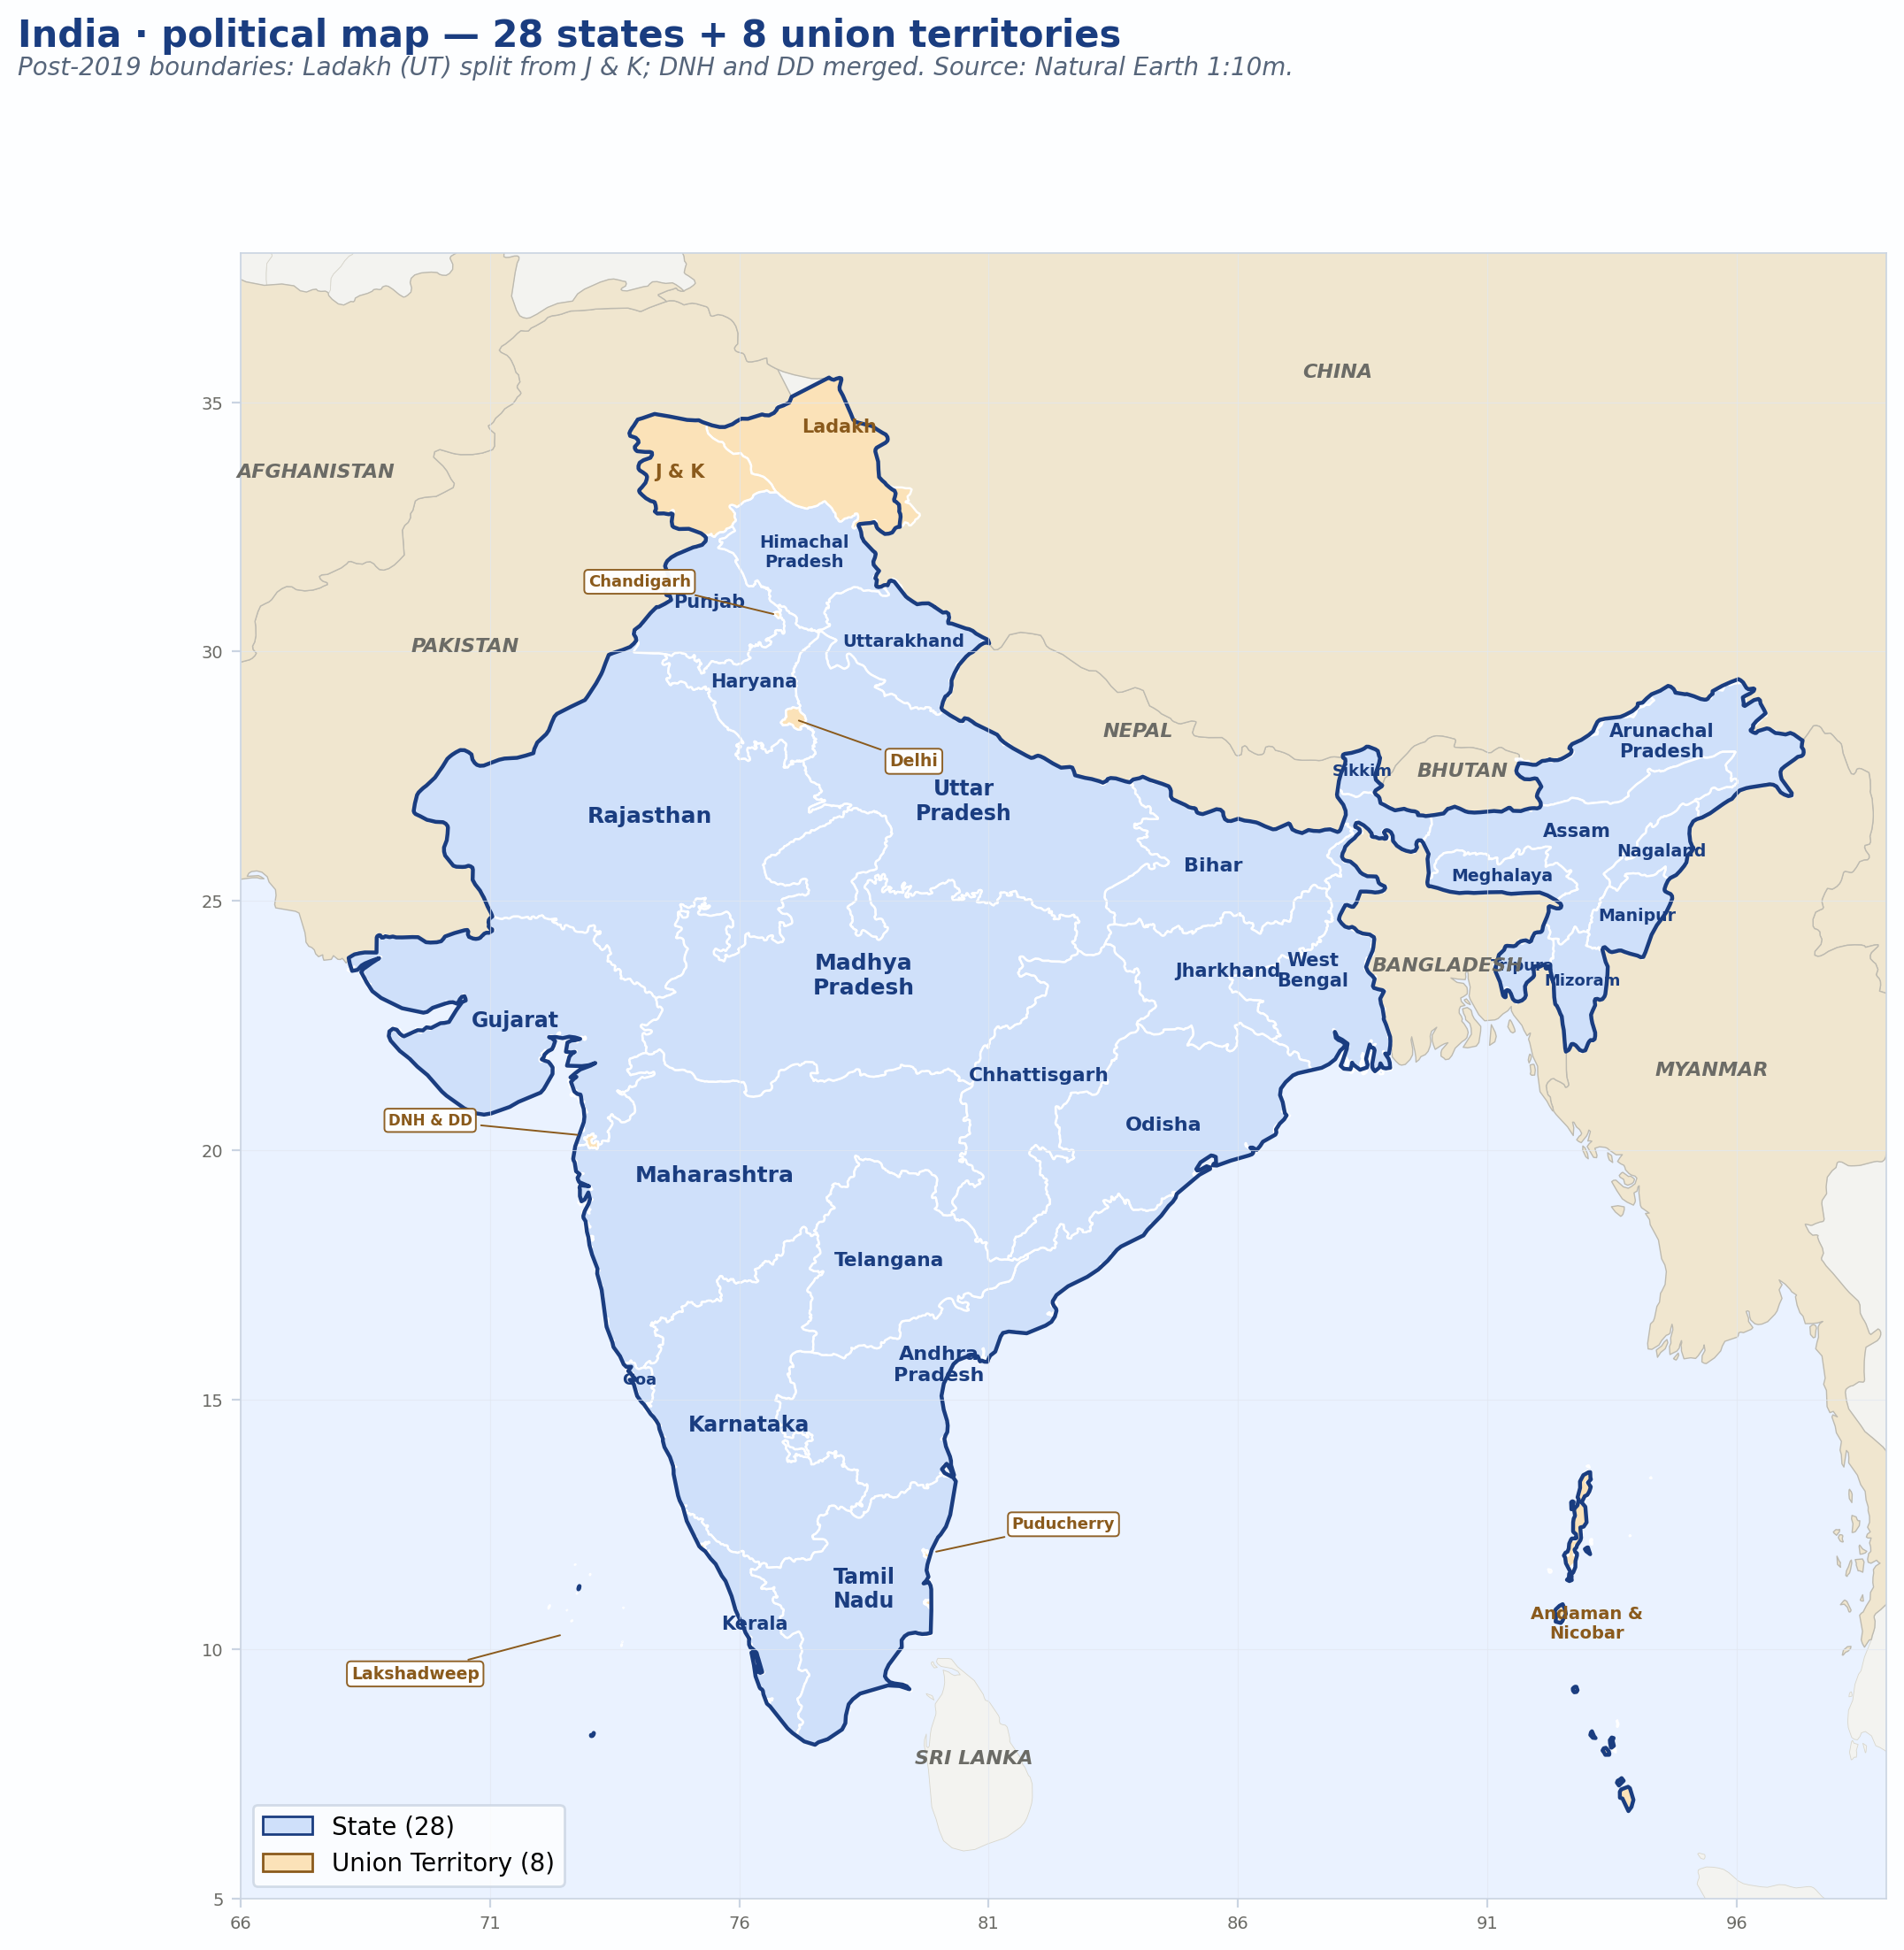
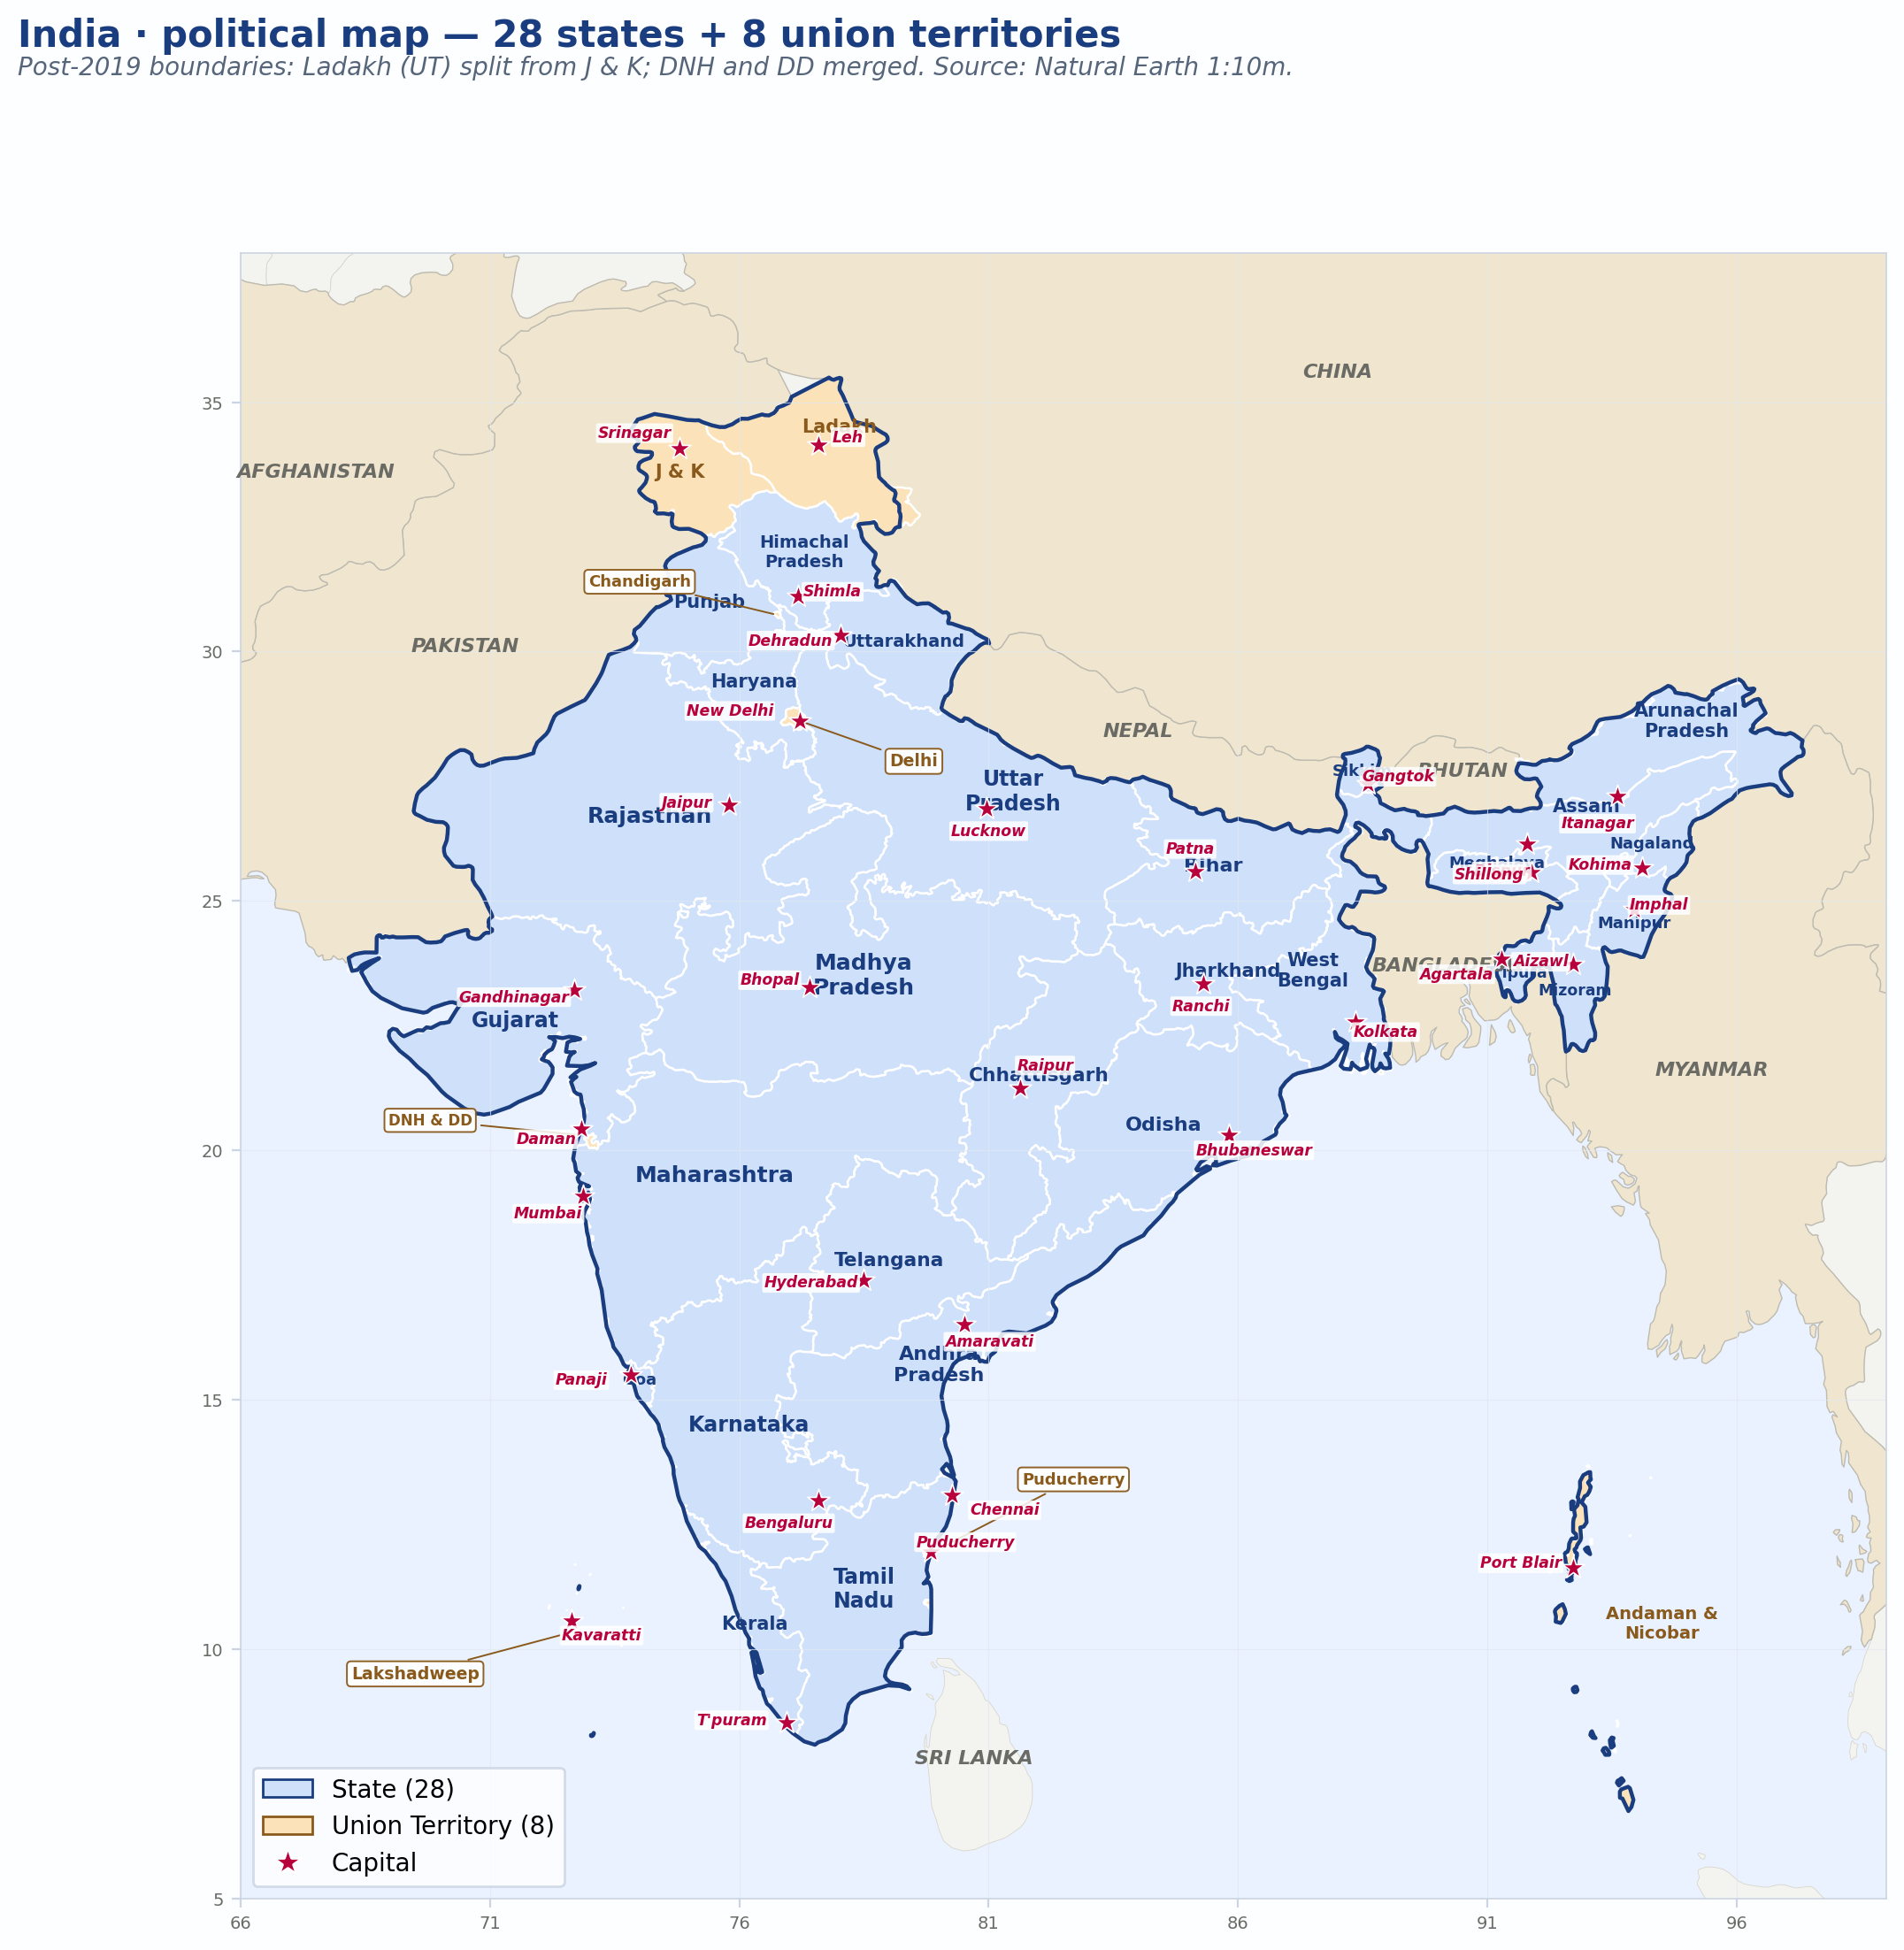
Ch 2: add state and UT capitals to political map
Plot 32 capital stars (26 state + 6 UT; Chandigarh doubles as its own
UT label, Puducherry city label already present as the UT itself).
Amaravati marked as Andhra Pradesh's capital per the 2014 Reorganisation
Act. Coordinates from Survey of India. Hand-tuned label offsets to avoid
collisions with state names in the dense northeast cluster and around
Delhi. Added a Capital star entry to the legend.

diff --git a/assets/images/ch02/make_maps.py b/assets/images/ch02/make_maps.py
@@ -398,16 +398,16 @@ def fig_political_map():
         "Delhi": (77.1, 28.65, 6.8, True, (79.5, 27.8)),
         "Chandigarh": (76.78, 30.73, 6.5, True, (74.0, 31.4)),
         "Rajasthan": (74.2, 26.7, 9.0, False, None),
-        "Uttar Pradesh": (80.5, 27.0, 8.5, False, None),
+        "Uttar Pradesh": (81.5, 27.2, 8.5, False, None),
         "Bihar": (85.5, 25.7, 8.0, False, None),
         "Sikkim": (88.5, 27.6, 6.5, False, None),
-        "Arunachal Pradesh": (94.5, 28.2, 7.5, False, None),
-        "Assam": (92.8, 26.4, 7.5, False, None),
-        "Nagaland": (94.5, 26.0, 6.8, False, None),
-        "Manipur": (94.0, 24.7, 6.8, False, None),
-        "Mizoram": (92.9, 23.4, 6.5, False, None),
-        "Tripura": (91.7, 23.7, 6.5, False, None),
-        "Meghalaya": (91.3, 25.5, 6.8, False, None),
+        "Arunachal Pradesh": (95.0, 28.6, 7.5, False, None),
+        "Assam": (93.0, 26.9, 7.5, False, None),
+        "Nagaland": (94.3, 26.15, 6.5, False, None),
+        "Manipur": (93.95, 24.55, 6.5, False, None),
+        "Mizoram": (92.75, 23.2, 6.2, False, None),
+        "Tripura": (91.60, 23.55, 6.2, False, None),
+        "Meghalaya": (91.20, 25.75, 6.5, False, None),
         "West Bengal": (87.5, 23.6, 7.5, False, None),
         "Jharkhand": (85.8, 23.6, 7.5, False, None),
         "Odisha": (84.5, 20.5, 8.0, False, None),
@@ -421,8 +421,8 @@ def fig_political_map():
         "Goa": (74.0, 15.4, 6.5, False, None),
         "Kerala": (76.3, 10.5, 7.5, False, None),
         "Tamil Nadu": (78.5, 11.2, 8.5, False, None),
-        "Puducherry": (79.85, 11.93, 6.5, True, (82.5, 12.5)),
-        "Andaman and Nicobar": (93.0, 10.5, 7.0, True, None),
+        "Puducherry": (79.85, 11.93, 6.5, True, (82.7, 13.4)),
+        "Andaman and Nicobar": (94.5, 10.5, 7.0, True, None),
         "Lakshadweep": (72.5, 10.3, 6.8, True, (69.5, 9.5)),
         "Dadra and Nagar Haveli and Daman and Diu": (72.85, 20.3, 6.0, True, (69.8, 20.6)),
     }
@@ -481,10 +481,62 @@ def fig_political_map():
         ax.text(lo, la, k, fontsize=8, color="#6b6b66",
                 style="italic", fontweight=600, ha="center")
 
+    # State + UT capitals (name, lon, lat, label_dx, label_dy)
+    # Coords per Survey of India / Census of India. Amaravati is Andhra Pradesh's
+    # designated capital (AP Reorganisation Act 2014). Chandigarh is skipped as
+    # a separate capital-marker because the UT is already labelled as such.
+    CAPITAL_COL = "#b8003c"
+    CAPITALS = [
+        # 28 state capitals
+        ("Amaravati",         80.52, 16.51,  0.5, -0.35),  # AP
+        ("Itanagar",          93.61, 27.10, -0.4, -0.55),  # Arunachal
+        ("Dispur",            91.79, 26.14, -0.5, -0.55),  # Assam
+        ("Patna",             85.14, 25.59, -0.1,  0.45),  # Bihar
+        ("Raipur",            81.63, 21.25,  0.5,  0.45),  # Chhattisgarh
+        ("Panaji",            73.83, 15.49, -1.0, -0.10),  # Goa
+        ("Gandhinagar",       72.68, 23.22, -1.2, -0.15),  # Gujarat
+        ("Shimla",            77.17, 31.10,  0.7,  0.10),  # HP
+        ("Ranchi",            85.31, 23.34, -0.05,-0.45),  # Jharkhand
+        ("Bengaluru",         77.59, 12.97, -0.6, -0.45),  # Karnataka
+        ("T'puram",           76.94,  8.52, -1.1,  0.05),  # Kerala (short form)
+        ("Bhopal",            77.41, 23.26, -0.8,  0.15),  # MP
+        ("Mumbai",            72.87, 19.08, -0.7, -0.35),  # Maharashtra
+        ("Imphal",            93.94, 24.82,  0.5,  0.10),  # Manipur
+        ("Shillong",          91.89, 25.58, -0.85, -0.05), # Meghalaya
+        ("Aizawl",            92.72, 23.73, -0.65,  0.05), # Mizoram
+        ("Kohima",            94.11, 25.67, -0.85,  0.05), # Nagaland
+        ("Bhubaneswar",       85.82, 20.30,  0.5, -0.30),  # Odisha
+        ("Jaipur",            75.79, 26.92, -0.85,  0.05), # Rajasthan
+        ("Gangtok",           88.61, 27.34,  0.6,  0.15),  # Sikkim
+        ("Chennai",           80.27, 13.08,  1.05, -0.30),  # Tamil Nadu
+        ("Hyderabad",         78.49, 17.39, -1.05, -0.05),  # Telangana
+        ("Agartala",          91.28, 23.83, -0.9, -0.30),  # Tripura
+        ("Lucknow",           80.95, 26.85,  0.05,-0.45),  # UP
+        ("Dehradun",          78.03, 30.32, -1.0, -0.10),  # Uttarakhand
+        ("Kolkata",           88.36, 22.57,  0.6, -0.20),  # WB
+        # UT capitals (Chandigarh skipped — the UT label itself is at Chandigarh)
+        ("New Delhi",         77.21, 28.61, -1.4,  0.20),  # Delhi UT
+        ("Srinagar",          74.80, 34.08, -0.9,  0.30),  # J & K (summer)
+        ("Leh",               77.58, 34.15,  0.6,  0.15),  # Ladakh
+        ("Puducherry",        79.83, 11.94,  0.7,  0.20),  # Puducherry (near TN coast)
+        ("Kavaratti",         72.64, 10.57,  0.6, -0.30),  # Lakshadweep
+        ("Port Blair",        92.72, 11.62, -1.05,  0.10),  # A & N
+        ("Daman",             72.83, 20.42, -0.7, -0.20),  # DNH & DD
+    ]
+    for name, lon, lat, dx, dy in CAPITALS:
+        ax.scatter([lon], [lat], marker="*", s=90, color=CAPITAL_COL,
+                   edgecolor="white", linewidth=0.6, zorder=6)
+        ax.text(lon + dx, lat + dy, name, fontsize=6.2, color=CAPITAL_COL,
+                fontweight=700, style="italic", ha="center", va="center", zorder=7,
+                bbox=dict(boxstyle="round,pad=0.12", facecolor="white",
+                          edgecolor="none", alpha=0.85))
+
     # Legend
     legend_els = [
         Patch(facecolor=STATE_FILL, edgecolor=STATE_EDGE, label="State (28)"),
         Patch(facecolor=UT_FILL, edgecolor=UT_EDGE, label="Union Territory (8)"),
+        Line2D([0], [0], marker="*", color="none", markerfacecolor=CAPITAL_COL,
+               markeredgecolor="white", markersize=12, label="Capital"),
     ]
     ax.legend(handles=legend_els, loc="lower left", frameon=True,
               facecolor="white", edgecolor="#cad4e2", fontsize=10)